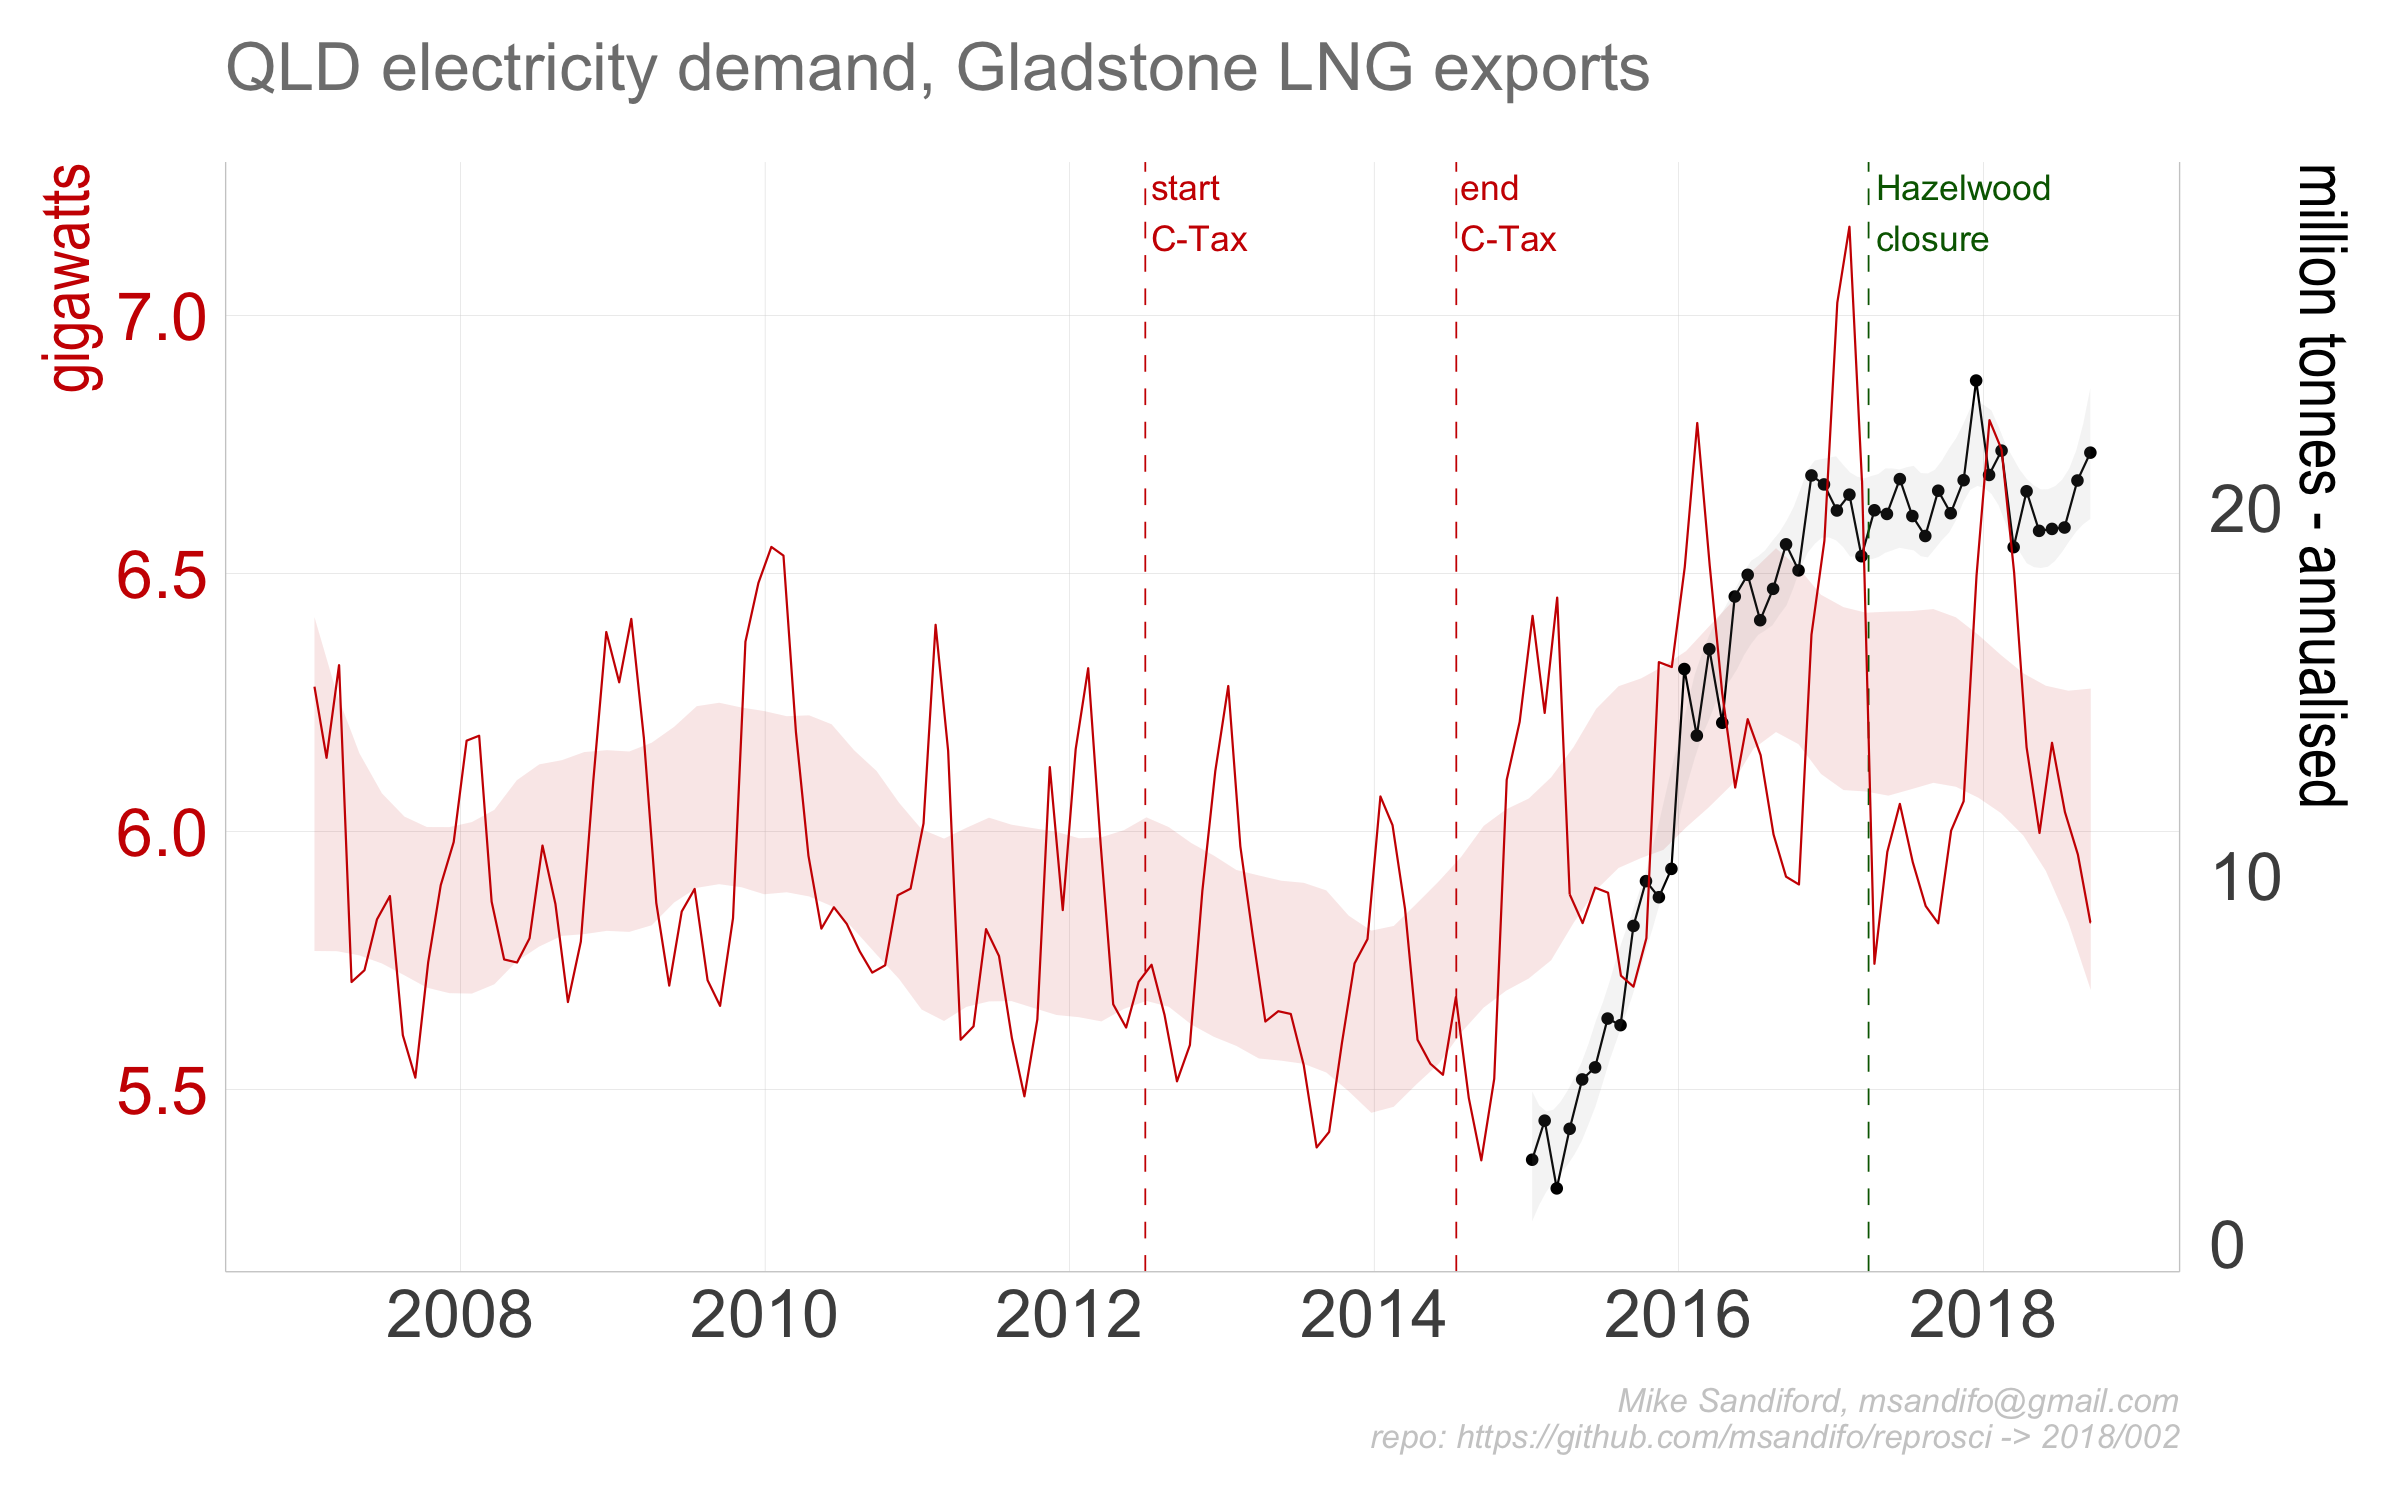
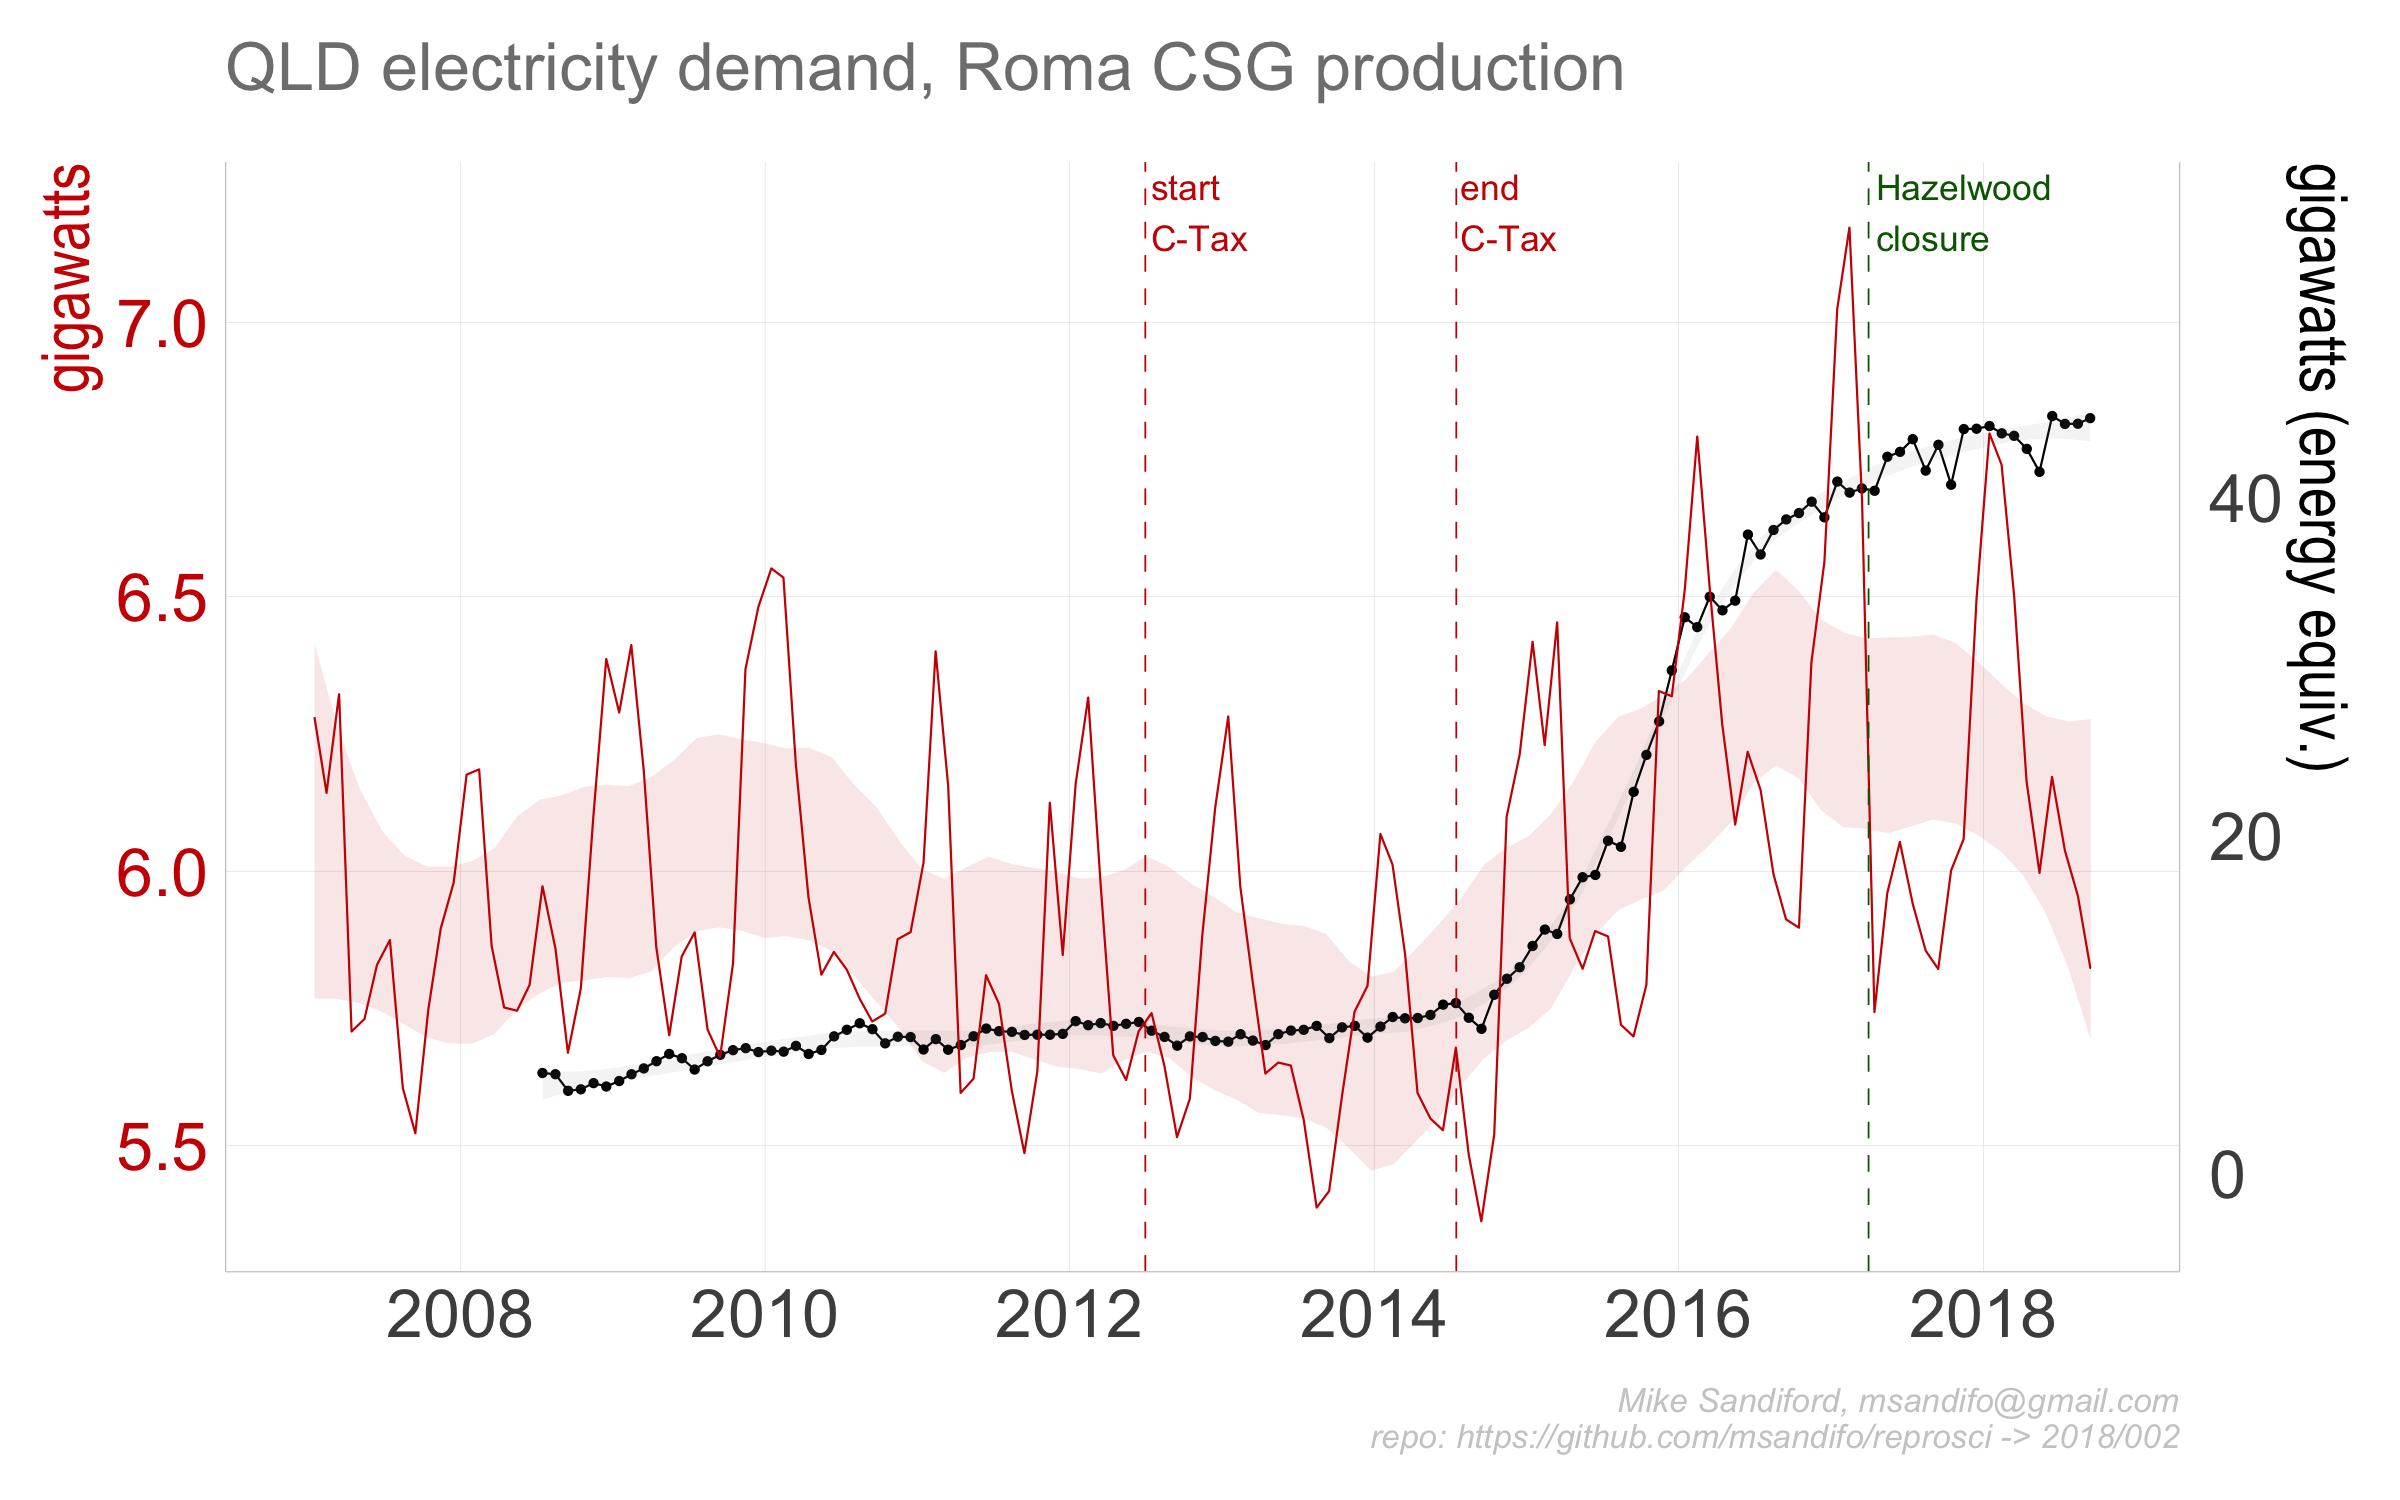
update

diff --git a/2018/002/Readme.md b/2018/002/Readme.md
@@ -1,14 +1,27 @@
 002
 ================
 
-## Gladstone LNG
+#### Updates
+
+###### 11-October
+
+  - update - output now shows Roma CSG production (AEMO Gas Bulletin
+    Board data)
+
+  - original - used Gladstone Port LNG export cargo data
+
+## LNG and coal seam gas impacts on electricity demand in Queensland
 
 Amongst the many factors that caused Australian east coast electricity
 wholesale prices to double ind 2016 was the opening of the east coast
-gas market to internatinal LNG exports, via the Port of Gladstone. Here
-I explore atime series of Gladstone Port Authority LNG export volumes,
-and QLD NEM market demand to illustrate the correlations. LNG exports
-are expresed in annualised tonneage. NEM demand in megawatts.
+gas market to internatinal LNG exports, via the Port of Gladstone. The
+as production uses to support the LNG exprst comes form the Coal Seam
+Gas fields at Roma. Here I explore a time series of ~~Gladstone Port
+Authority LNG export volumes~~ QLD CSG production volumes, and QLD NEM
+market demand to illustrate the correlations.
+
+Both CSG production and NEM demand in megawatts, in the former by
+converting the standard TJ/day by a factor of `11.5740741`
 
 ## Data Sources
 
@@ -29,7 +42,8 @@ If not already installed, sourcing `'./src/functions.R'` automatically
 installs the package dependencies `tidyverse`, `ggplot2`, `magrittr`,
 `purrr`, `stringr`, `drake`, `lubridate`, `rvest`,
 `rappdirs`,`data.table`, `fasttime`, `devtools`, `wbstats` , `zoo` from
-cran, and `hrbrthemes` from the github repo `hrbrmstr/hrbrthemes`.
+cran, and `hrbrthemes` from the github repos `hrbrmstr/hrbrthemes` and
+`msandifo/reprosci`
 
 #### Setup
 
@@ -115,8 +129,14 @@ Output charts using `ggplot` are saved to the `./figs` directory :
 
 ``` r
 p002<-drake::readd(p002)
-ggsave("./figs/p002_01.png",  p002$p1, width=8, height=5) 
+ggsave("./figs/p002_01.png",  p002$p1 ,width=8, height=5) 
+ggsave("./figs/p002_01o.png",  p002$p1.o ,width=8, height=5) 
 ```
+
+<img src="./figs/p002_01.png" alt="hist1" align="center" style = "border: none; float: center;" width = "1000px">
+
+where `./figs/p002_01o.png` is the original
+<img src="./figs/p002_01o.png" alt="hist1" align="center" style = "border: none; float: center;" width = "1000px">
 
 ## Code details
 

diff --git a/README.md b/README.md
@@ -12,6 +12,14 @@ processing and visualisation is achieved using `r`, and relies on the
 `RStudio` environment, which is strongly recommended. Some simulations
 employ other codes, such as `Basilisk`.
 
+#### Updates
+
+###### 11-October
+
+  - update - incorproarted AEMO GASBB production data for Roma CSG files
+
+  - original - used Gladstone Port LNG export cargo data
+
 #### Procedure
 
 The easist way to download the `reprosci` github repo is to use the
